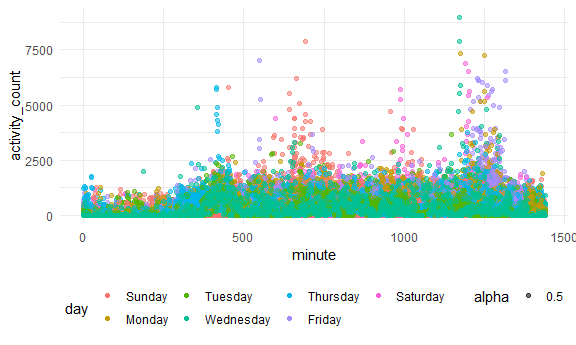
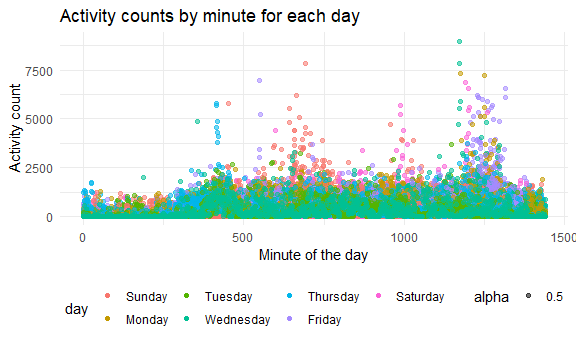
added labels for accel_plot in problem 2

diff --git a/p8105_hw3_amv2204.md b/p8105_hw3_amv2204.md
@@ -102,7 +102,12 @@ courses for each day:
 ``` r
 accel %>%
   ggplot(aes(x = minute, y = activity_count, color = day)) +
-  geom_point(aes(alpha = .5)) 
+  geom_point(aes(alpha = .5)) +
+   labs(
+    title = "Activity counts by minute for each day",
+    x = "Minute of the day",
+    y = "Activity count"
+  )
 ```
 
 <img src="p8105_hw3_amv2204_files/figure-gfm/accel_plot-1.png" width="90%" />
